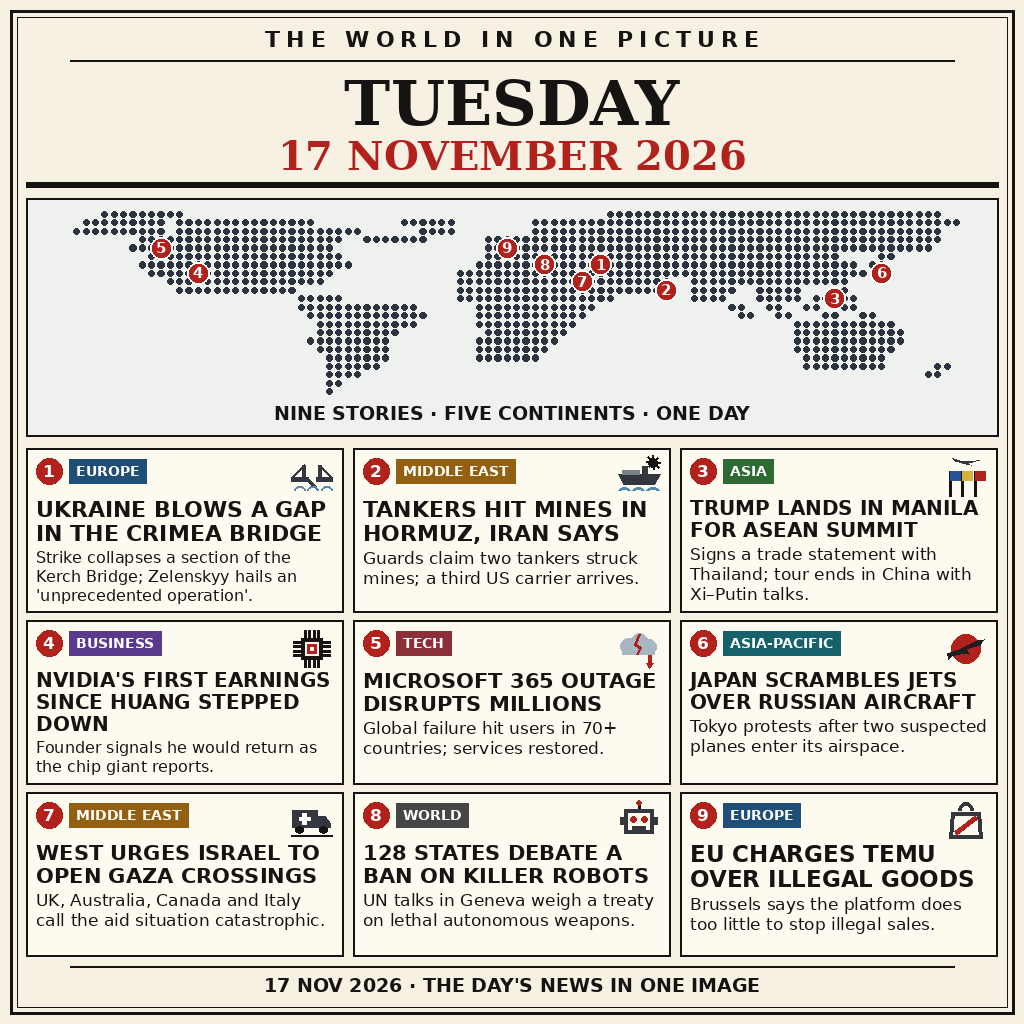
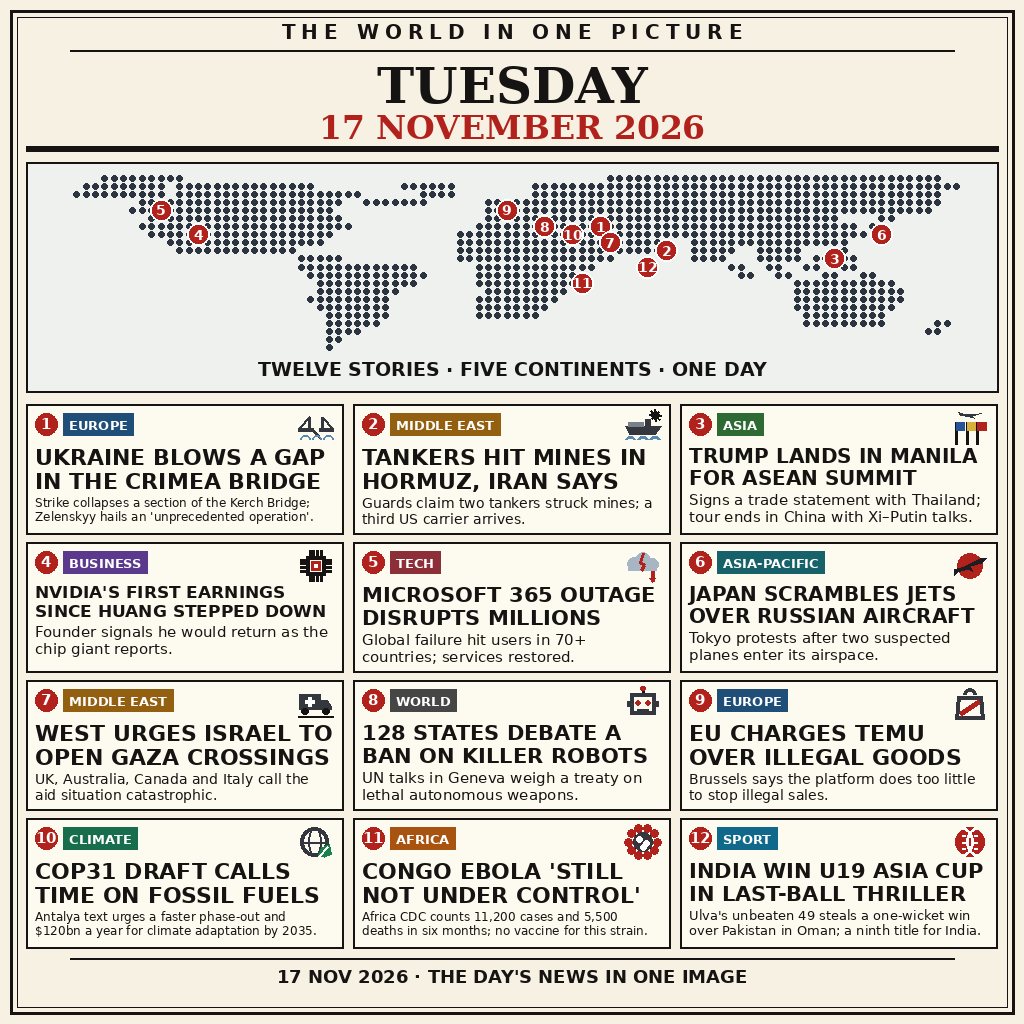
v3: twelve stories, 3x4 grid, 12 map pins

Changed region(s): [[0.0312, 0.0, 0.9688, 0.9688]]

diff --git a/draw.py b/draw.py
@@ -100,11 +100,11 @@ def tag_chip(d, x, y, label, color):
 # ---------------------------------------------------------------- masthead
 def masthead(d):
     cx = W // 2
-    tracked(d, "THE WORLD IN ONE PICTURE", cx, 26, font(F_SANS_B, 22), 6, INK)
-    d.line([70, 60, W - 70, 60], fill=INK, width=2)
-    centered(d, "TUESDAY", cx, 66, font(F_SERIF_B, 62))
-    centered(d, "17 NOVEMBER 2026", cx, 132, font(F_SERIF_B, 40), RED)
-    d.rectangle([26, 182, W - 26, 187], fill=INK)
+    tracked(d, "THE WORLD IN ONE PICTURE", cx, 20, font(F_SANS_B, 20), 6, INK)
+    d.line([70, 50, W - 70, 50], fill=INK, width=2)
+    centered(d, "TUESDAY", cx, 56, font(F_SERIF_B, 50))
+    centered(d, "17 NOVEMBER 2026", cx, 108, font(F_SERIF_B, 33), RED)
+    d.rectangle([26, 146, W - 26, 151], fill=INK)
 
 
 # ---------------------------------------------------------------- world map
@@ -145,9 +145,12 @@ PINS = {
     4: (16, 7),    # California (Nvidia)
     5: (12, 4),    # Redmond (Microsoft), offset NW of pin 4
     6: (89, 7),    # Japan
-    7: (57, 8),    # Gaza / Eastern Mediterranean
+    7: (60, 8),    # Gaza / Eastern Mediterranean (nudged E to clear pin 10)
     8: (53, 6),    # Geneva
     9: (49, 4),    # Brussels / EU
+    10: (56, 7),   # Antalya, Türkiye (COP31)
+    11: (57, 13),  # DR Congo (Ebola outbreak)
+    12: (64, 11),  # Oman / SE Arabia (U19 Asia Cup final)
 }
 
 
@@ -168,15 +171,15 @@ def world_map(d, box):
         for c, ch in enumerate(row):
             if ch == "#":
                 cx = ox + (c + 0.5) * px
-                d.ellipse([cx - 3.1, cy - 3.1, cx + 3.1, cy + 3.1], fill=land)
-    pf = font(F_SANS_B, 15)
+                d.ellipse([cx - 3.0, cy - 3.0, cx + 3.0, cy + 3.0], fill=land)
+    pf = font(F_SANS_B, 14)
     for num, (c, r) in PINS.items():
         cx = ox + (c + 0.5) * px
         cy = oy + (r + 0.5) * py
         d.ellipse([cx - 11, cy - 11, cx + 11, cy + 11], fill=RED, outline=(255, 255, 255), width=2)
         s = str(num)
-        d.text((cx - text_w(d, s, pf) / 2, cy - 9), s, font=pf, fill=(255, 255, 255))
-    cap = "NINE STORIES \u00b7 FIVE CONTINENTS \u00b7 ONE DAY"
+        d.text((cx - text_w(d, s, pf) / 2, cy - 8), s, font=pf, fill=(255, 255, 255))
+    cap = "TWELVE STORIES \u00b7 FIVE CONTINENTS \u00b7 ONE DAY"
     centered(d, cap, (x0 + x1) // 2, y1 - 34, font(F_SANS_B, 19), INK)
 
 
@@ -343,37 +346,79 @@ def icon_bag(d, x, y, s):
     d.line([x + s * 0.24, y + s * 0.80, x + s * 0.76, y + s * 0.42], fill=RED, width=5)
 
 
+def icon_climate(d, x, y, s):
+    """Globe outline with a green leaf, for the COP31 draft deal."""
+    col = (52, 56, 62)
+    cx, cy, r = x + s * 0.46, y + s * 0.50, s * 0.40
+    d.ellipse([cx - r, cy - r, cx + r, cy + r], outline=col, width=4)
+    d.ellipse([cx - r * 0.45, cy - r, cx + r * 0.45, cy + r], outline=col, width=2)
+    d.line([cx - r, cy, cx + r, cy], fill=col, width=2)
+    leaf = (24, 130, 76)
+    lx, ly = x + s * 0.58, y + s * 0.58
+    d.polygon([(lx, ly + s * 0.30), (lx + s * 0.06, ly + s * 0.08),
+               (lx + s * 0.30, ly), (lx + s * 0.34, ly + s * 0.26),
+               (lx + s * 0.16, ly + s * 0.36)], fill=leaf)
+    d.line([lx + s * 0.03, ly + s * 0.32, lx + s * 0.28, ly + s * 0.05], fill=(255, 255, 255), width=2)
+
+
+def icon_virus(d, x, y, s):
+    """Spiked virus ball, for the DR Congo Ebola outbreak."""
+    import math
+    cx, cy, r = x + s * 0.5, y + s * 0.5, s * 0.26
+    for a in range(0, 360, 36):
+        dx, dy = math.cos(math.radians(a)), math.sin(math.radians(a))
+        x1, y1 = cx + dx * r, cy + dy * r
+        x2, y2 = cx + dx * r * 1.55, cy + dy * r * 1.55
+        d.line([x1, y1, x2, y2], fill=INK, width=3)
+        d.ellipse([x2 - 4, y2 - 4, x2 + 4, y2 + 4], fill=RED)
+    d.ellipse([cx - r, cy - r, cx + r, cy + r], fill=(52, 56, 62))
+    for ox, oy in ((-0.10, -0.06), (0.11, 0.04), (0.0, 0.14)):
+        d.ellipse([cx + s * ox - 3, cy + s * oy - 3, cx + s * ox + 3, cy + s * oy + 3],
+                  fill=(255, 255, 255))
+
+
+def icon_ball(d, x, y, s):
+    """Red cricket ball with white seams, for the U19 Asia Cup final."""
+    cx, cy, r = x + s * 0.5, y + s * 0.5, s * 0.40
+    d.ellipse([cx - r, cy - r, cx + r, cy + r], fill=RED)
+    d.arc([cx - r * 1.35, cy - r, cx + r * 0.25, cy + r], 270, 90, fill=(255, 255, 255), width=3)
+    d.arc([cx - r * 0.25, cy - r, cx + r * 1.35, cy + r], 90, 270, fill=(255, 255, 255), width=3)
+    for t in (-0.45, 0.0, 0.45):
+        d.line([cx - r * 0.52, cy + r * t, cx - r * 0.34, cy + r * t], fill=(255, 255, 255), width=2)
+        d.line([cx + r * 0.34, cy + r * t, cx + r * 0.52, cy + r * t], fill=(255, 255, 255), width=2)
+
+
 # ---------------------------------------------------------------- panels
 def num_badge(d, x, y, num):
     """Red disc with a white numeral, matching the map pins."""
-    r = 13
+    r = 11
     d.ellipse([x, y, x + 2 * r, y + 2 * r], fill=RED)
-    f = font(F_SANS_B, 17)
+    f = font(F_SANS_B, 15)
     s = str(num)
-    d.text((x + r - text_w(d, s, f) / 2, y + r - 10), s, font=f, fill=(255, 255, 255))
+    d.text((x + r - text_w(d, s, f) / 2, y + r - 9), s, font=f, fill=(255, 255, 255))
     return 2 * r
 
 
-def panel(d, box, num, tag, tag_color, headline, caption, icon=None, headline_max=26):
+def panel(d, box, num, tag, tag_color, headline, caption, icon=None, headline_max=23):
     x0, y0, x1, y1 = box
     d.rectangle([x0, y0, x1, y1], fill=PAPER, outline=INK, width=2)
-    pad = 10
+    pad = 9
     bw = num_badge(d, x0 + pad, y0 + pad, num)
-    tag_f = font(F_SANS_B, 14)
-    label_w = int(text_w(d, tag, tag_f)) + 14
-    tx0 = x0 + pad + bw + 7
-    d.rectangle([tx0, y0 + pad + 1, tx0 + label_w, y0 + pad + 25], fill=tag_color)
-    d.text((tx0 + 7, y0 + pad + 5), tag, font=tag_f, fill=(255, 255, 255))
+    tag_f = font(F_SANS_B, 13)
+    label_w = int(text_w(d, tag, tag_f)) + 12
+    tx0 = x0 + pad + bw + 6
+    d.rectangle([tx0, y0 + pad, tx0 + label_w, y0 + pad + 22], fill=tag_color)
+    d.text((tx0 + 6, y0 + pad + 4), tag, font=tag_f, fill=(255, 255, 255))
     if icon:
-        icon(d, x1 - pad - 42, y0 + pad - 2, 42)
+        icon(d, x1 - pad - 36, y0 + pad - 3, 36)
     tx = x0 + pad
     tw = (x1 - x0) - 2 * pad
-    hy = y0 + pad + 38
-    hf, hlines, hlh = fit_block(d, headline, F_SANS_B, headline_max, 19, tw,
-                                (y1 - y0) - 96, 1.12)
+    hy = y0 + pad + 31
+    hf, hlines, hlh = fit_block(d, headline, F_SANS_B, headline_max, 15, tw,
+                                (y1 - y0) - 82, 1.12)
     hy = draw_lines(d, hlines, tx, hy, hf, hlh)
-    cy = hy + 4
-    cf, clines, clh = fit_block(d, caption, F_SANS, 17, 13, tw, (y1 - 7) - cy, 1.2)
+    cy = hy + 3
+    cf, clines, clh = fit_block(d, caption, F_SANS, 15, 11, tw, (y1 - 6) - cy, 1.18)
     draw_lines(d, clines, tx, cy, cf, clh)
 
 
@@ -431,6 +476,18 @@ STORIES = [
      "EU CHARGES TEMU OVER ILLEGAL GOODS",
      "Brussels says the platform does too little to stop illegal sales.",
      icon_bag),
+    (10, "CLIMATE", (24, 110, 76),
+     "COP31 DRAFT CALLS TIME ON FOSSIL FUELS",
+     "Antalya text urges a faster phase-out and $120bn a year for "
+     "climate adaptation by 2035.", icon_climate),
+    (11, "AFRICA", (168, 84, 16),
+     "CONGO EBOLA 'STILL NOT UNDER CONTROL'",
+     "Africa CDC counts 11,200 cases and 5,500 deaths in six months; "
+     "no vaccine for this strain.", icon_virus),
+    (12, "SPORT", (16, 104, 138),
+     "INDIA WIN U19 ASIA CUP IN LAST-BALL THRILLER",
+     "Ulva's unbeaten 49 steals a one-wicket win over Pakistan in "
+     "Oman; a ninth title for India.", icon_ball),
 ]
 
 
@@ -441,20 +498,20 @@ def build():
     d.rectangle([17, 17, W - 17, H - 17], outline=INK, width=1)
 
     masthead(d)
-    world_map(d, (26, 198, W - 26, 436))
+    world_map(d, (26, 162, W - 26, 392))
 
     gx0, gx1 = 26, W - 26
     colw = (gx1 - gx0 - 20) // 3
-    rows_y = [(448, 612), (620, 784), (792, 956)]
+    rows_y = [(404, 534), (542, 672), (680, 810), (818, 948)]
     for i, (num, tag, color, head, cap, icon) in enumerate(STORIES):
         r, c = divmod(i, 3)
         x0 = gx0 + c * (colw + 10)
         box = (x0, rows_y[r][0], x0 + colw, rows_y[r][1])
         panel(d, box, num, tag, color, head, cap, icon)
 
-    d.line([70, 966, W - 70, 966], fill=INK, width=2)
-    centered(d, "17 NOV 2026 \u00b7 THE DAY'S NEWS IN ONE IMAGE", W // 2, 974,
-             font(F_SANS_B, 19))
+    d.line([70, 958, W - 70, 958], fill=INK, width=2)
+    centered(d, "17 NOV 2026 \u00b7 THE DAY'S NEWS IN ONE IMAGE", W // 2, 966,
+             font(F_SANS_B, 18))
     img.save(OUT, "PNG")
     print("wrote", OUT, os.path.getsize(OUT), "bytes")
 

diff --git a/README.md b/README.md
@@ -4,7 +4,7 @@
 [![rank](https://make.fun/badge/news-image-20261117/qmyCode/nov17-world-in-one-picture/rank.svg)](https://make.fun/bounty/news-image-20261117/leaderboard?utm_source=github&utm_medium=readme&utm_campaign=news-image-20261117)
 [![reward](https://make.fun/badge/news-image-20261117/qmyCode/nov17-world-in-one-picture/reward.svg)](https://make.fun/bounty/news-image-20261117/leaderboard?utm_source=github&utm_medium=readme&utm_campaign=news-image-20261117)
 
-One image that sums up the world's news of Tuesday 17 November 2026: a drawn newspaper front page with a dot-matrix world map and nine numbered stories — Ukraine's strike on the Crimea Bridge, tankers hitting mines in the Strait of Hormuz, Trump landing in Manila for the ASEAN summit, Nvidia's first earnings since Jensen Huang stepped down, the global Microsoft 365 outage, Japan scrambling jets over Russian aircraft, Western nations urging Israel to open Gaza crossings, 128 states debating a ban on lethal autonomous weapons in Geneva, and the EU charging Temu over illegal goods.
+One image that sums up the world's news of Tuesday 17 November 2026: a drawn newspaper front page with a dot-matrix world map and twelve numbered stories — Ukraine's strike on the Crimea Bridge, tankers hitting mines in the Strait of Hormuz, Trump landing in Manila for the ASEAN summit, Nvidia's first earnings since Jensen Huang stepped down, the global Microsoft 365 outage, Japan scrambling jets over Russian aircraft, Western nations urging Israel to open Gaza crossings, 128 states debating a ban on lethal autonomous weapons in Geneva, the EU charging Temu over illegal goods, the COP31 draft calling time on fossil fuels, Ebola in DR Congo still not under control, and India winning the U19 Asia Cup in a last-ball thriller.
 
 The entry program (`main.py`, Python standard library only) copies the committed `entry.png` byte-for-byte to `/output/entry.png` and verifies its size and signature, so every run writes identical bytes. The poster itself was drawn programmatically with `draw.py` (Pillow) — real rendered text, no generated-image garbling.
 
